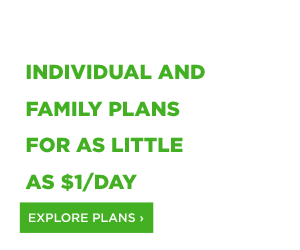
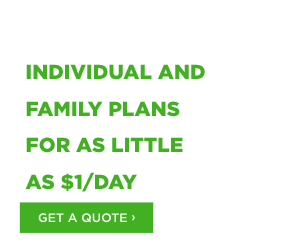
updated images per new cta - change request RPM-145

Changed region(s): [[0.09, 0.84, 0.48, 0.896]]

diff --git a/DDWA-toothpaste-banners-160x600/index.html b/DDWA-toothpaste-banners-160x600/index.html
@@ -70,12 +70,12 @@
 
     .frame.frame-1 {
       z-index: 1;
-      background-image: url('./images/DDWA_I&F_160x600_F1.png');
+      background-image: url('./images/DDWA_I&F_toothpaste_160x600_F1.png');
     }
 
     .frame.frame-2 {
       z-index: 1;
-      background-image: url('./images/DDWA_I&F_160x600_F2.png');
+      background-image: url('./images/DDWA_I&F_toothpaste_160x600_F2.png');
     }
 
     .frame.logo {
@@ -181,9 +181,9 @@
       function preload() {
         images = [
           './images/DDWA_I&F_toothpaste_160x600_bg.png',
-          './images/DDWA_I&F_160x600_F1.png',
+          './images/DDWA_I&F_toothpaste_160x600_F1.png',
           './images/DDWA_I&F_toothpaste_160x600_logo.png',
-          './images/DDWA_I&F_160x600_F2.png',
+          './images/DDWA_I&F_toothpaste_160x600_F2.png',
           './images/toothpaste-spritesheet.png',
         ];
 
